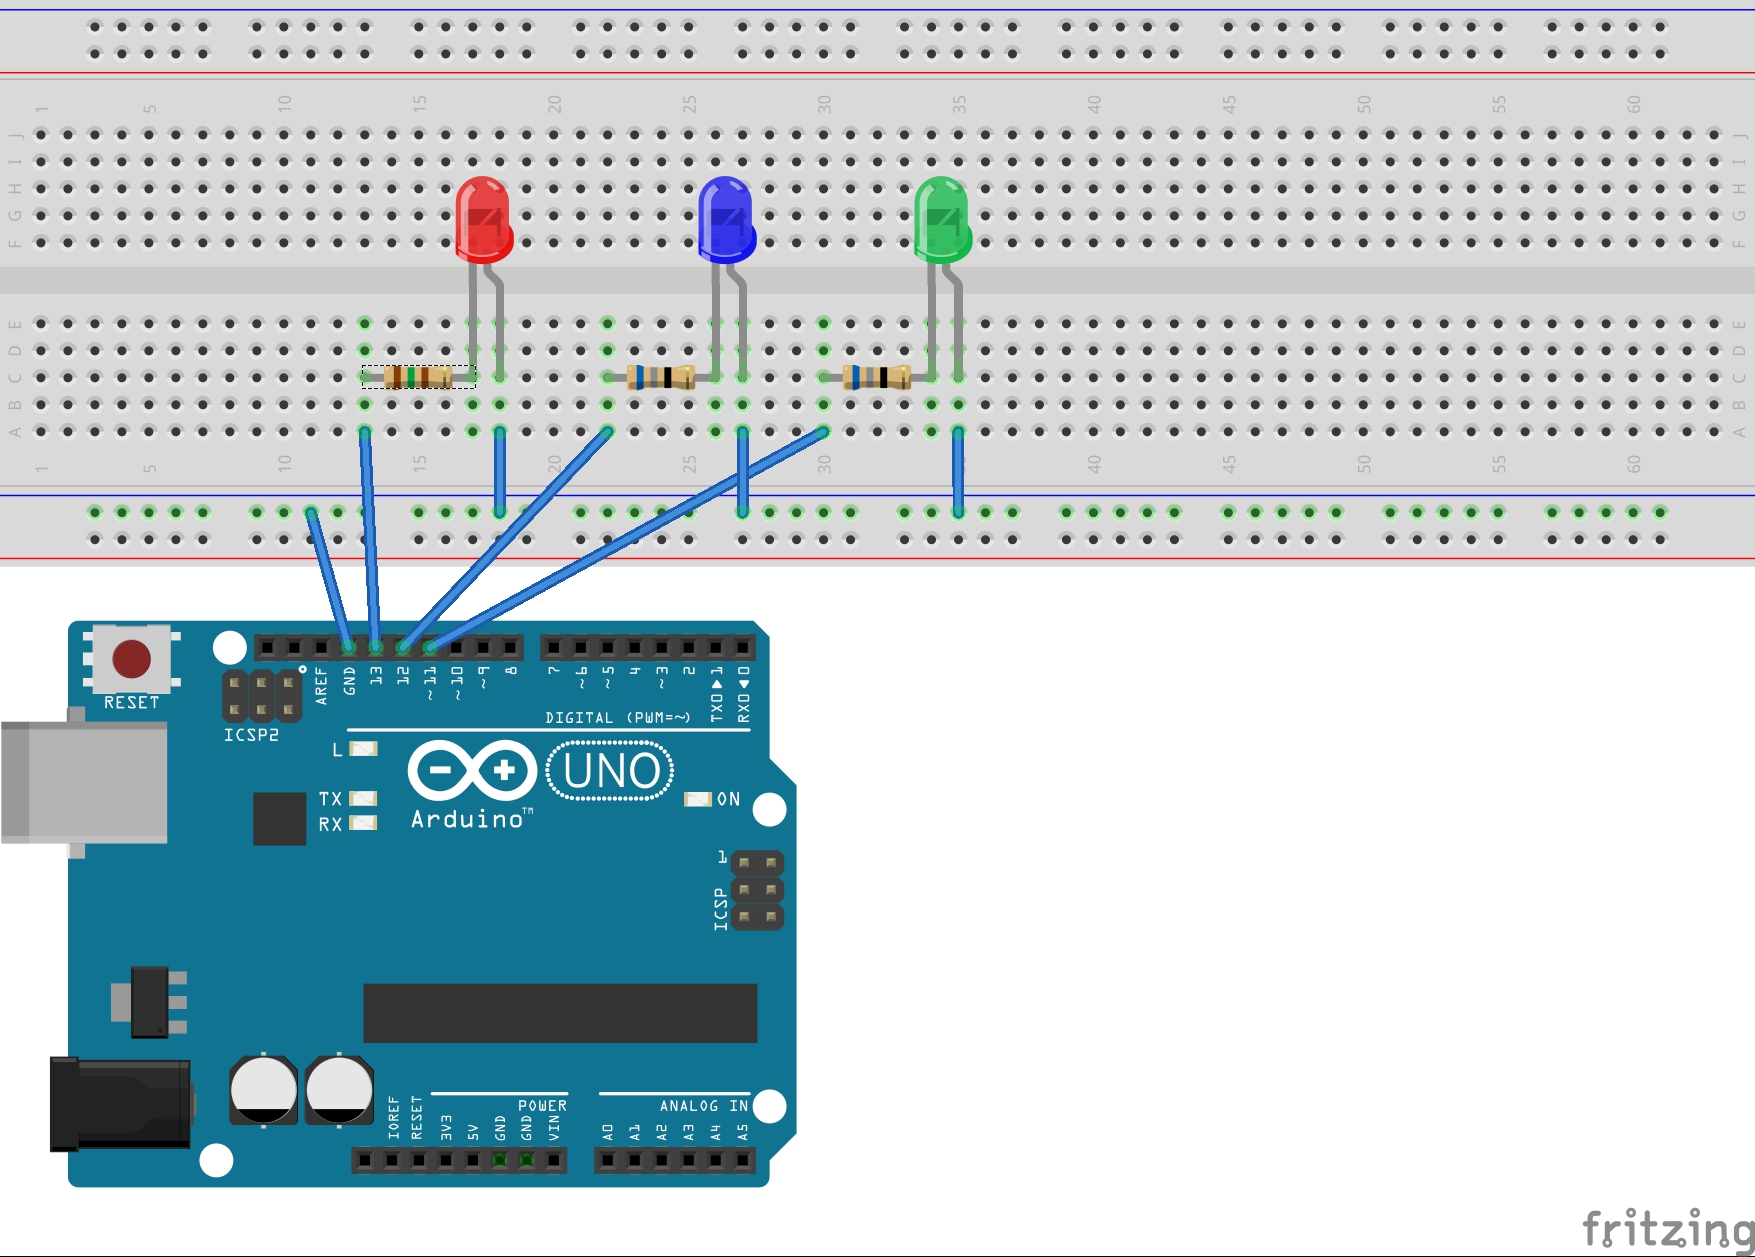
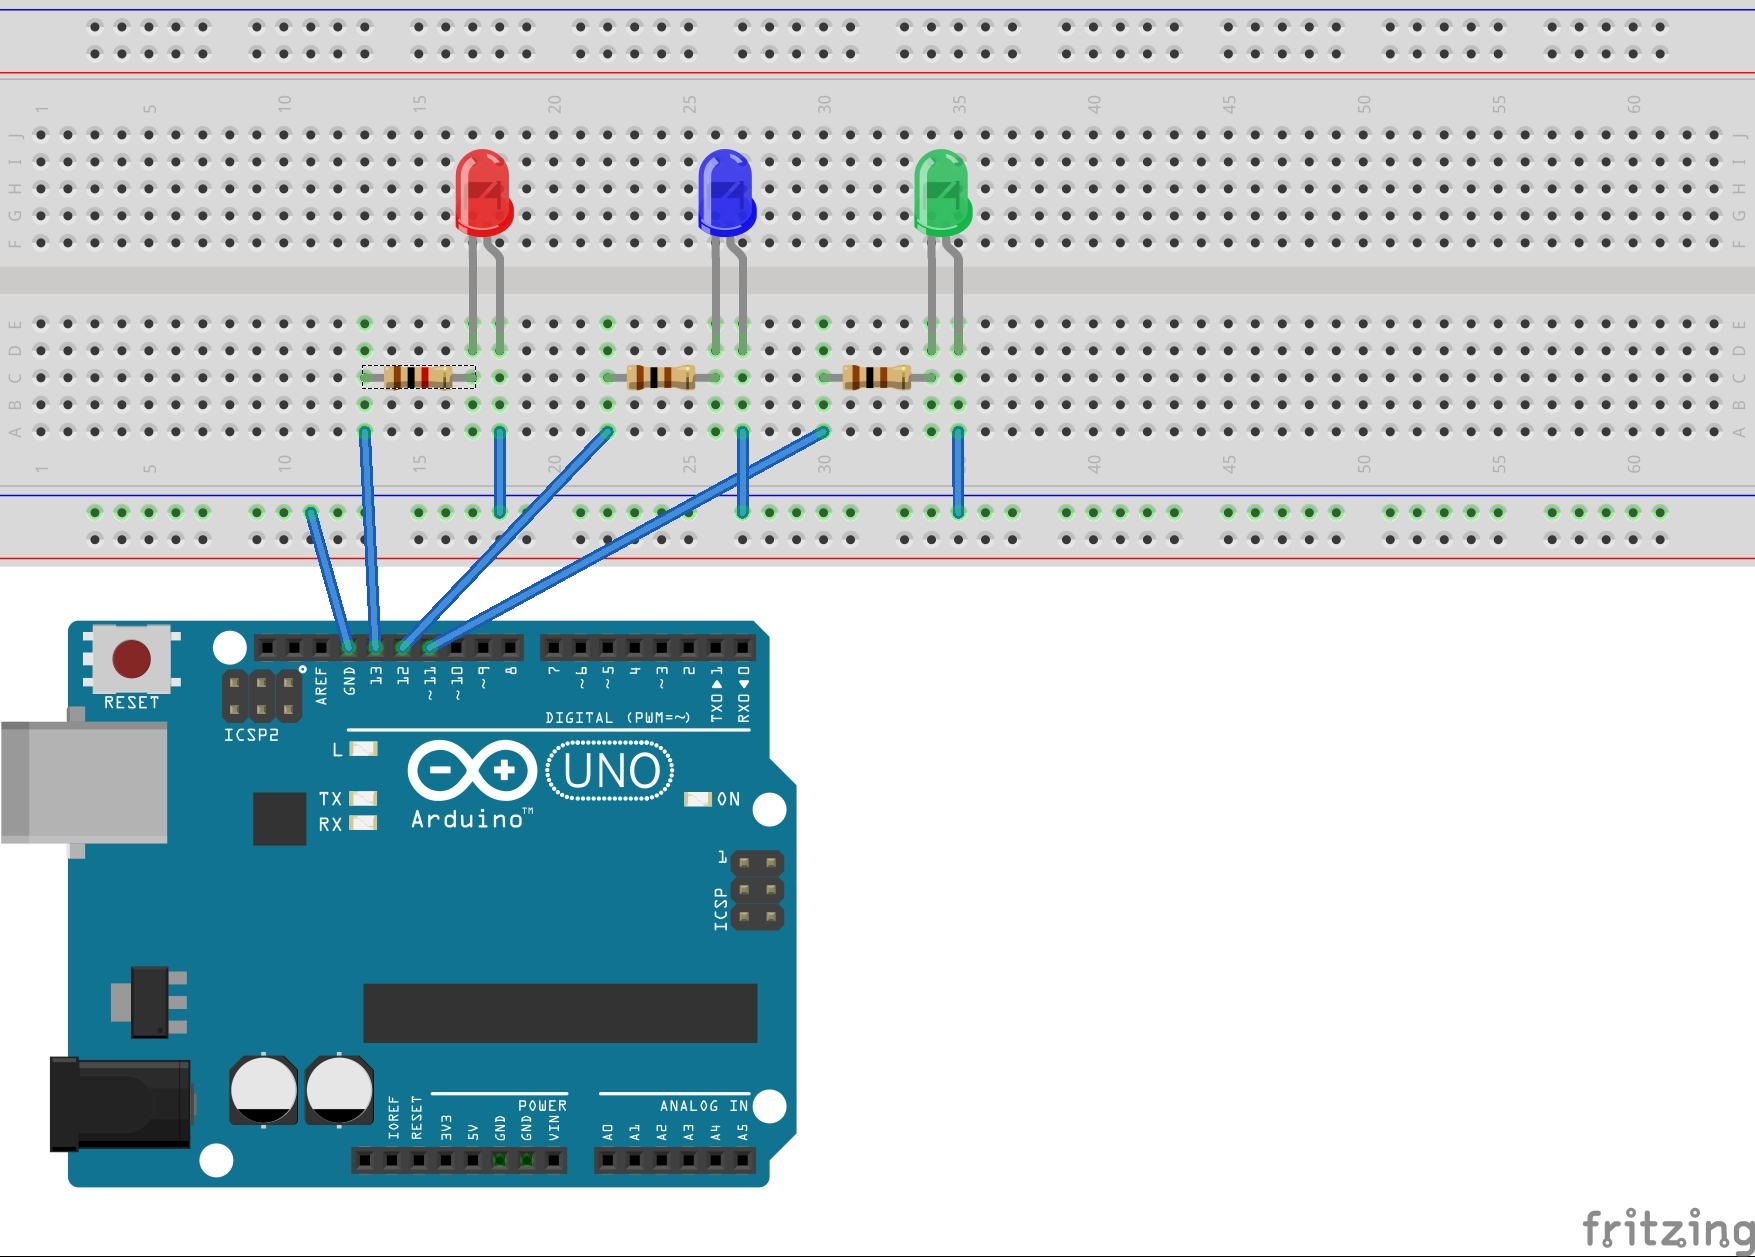
a1

diff --git a/assignment1.html b/assignment1.html
@@ -12,14 +12,35 @@
     <body> 
 
         <div class="header">
-            <h1>Example Student's Assignment 1!</h1>
+            <h1>Assigntment 1: Blink!</h1>
+           
             <p>
-            <img src="A1Circuit.jpg" width=400></a>
+            	<img src="blink.gif" width=400></a>
             </p>
             <p>
-            Here is all the documentation for assignment 1!
+            The LED blinking sequence.
+        	</p>
+        </div>
+        <div class="blinking">
+        	<h2>Circuit</h2>
+        	 <p>
+            	<img src="A1circuit.jpg" width=400></a>
+            	<img src="circuit.jpg" width=400></a>
+            </p>
+
+            <p>
+            Circuit for 3 blinking LEDs. I used pins 11, 12, and 13 for power and connected ground to the negative row on the breadboard. I connected to power for each LED with a red wire connected to a resistor first (330 ohms for red, 100 ohms for blue, and 100 ohms for green), then the resistor to the corresponding LED. I calculated the resistance needed for each LED using the equation V=IxR. Finally, I connected black wires from the negative row on the bread board (ground) to the second pin on each LED.  
             </p>
         </div>
-        
+        <div class="schematic"> 
+        	<img src="schematic.jpg" width=400></a>
+        	<p>
+        		Here is the schematic for each of the LEDs and the calculation for the resistors with 5V of power from the board. I used the target of 20mA and the drop voltage for each light. 
+</div>
+<div class="code">
+	<img src="codesnippet.jpg"></a>
+	<p>
+		Here is the code I used within the Arduino IDE to create the sequence of LED blinks. See comments in the code for a description of each section of code.
+</div>
     </body>
 </html>

diff --git a/index.html b/index.html
@@ -24,9 +24,9 @@
 
             <div class="assignment">
               <a href="assignment1.html"><h2>Assignment 1: Blink!</h2>
-                  <img src="red-panda.jpg" width=250></a>
+                  <img src="blink.gif" width=250></a>
                 <p>
-		Assignment 1 was a panda!
+		Assignment 1 was to make multicolored LEDs blink in a sequence!
                 </p>
             </div>
 
